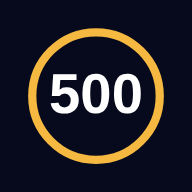
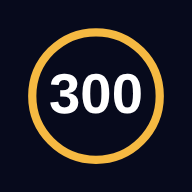
feat(chase): convert to T20 format (Chase 300 in 20 overs)
New T20 squads, retuned simulation, updated branding and icons.

Claude-Session: https://claude.ai/code/session_01HJVLRTaVsxWnxJfbUQ7NmV

Changed region(s): [[0.25, 0.375, 0.4375, 0.5938], [0.25, 0.5312, 0.3125, 0.5625]]

diff --git a/chase/src/data.js b/chase/src/data.js
@@ -1,50 +1,55 @@
-// Fan-made, approximate ratings (0-100). Not official stats.
+// Fan-made T20 squads, approximate ratings (0-100). Not official stats.
 // P(name, minSlot, maxSlot, bat, pow, bwl, keeper?)
 const P = (name, lo, hi, bat, pow, bwl, k = false) => ({ name, lo, hi, bat, pow, bwl, k })
 
 export const SQUADS = [
-  { id: 'wi79', name: 'West Indies', year: 1979, players: [
-    P('Greenidge', 1, 2, 82, 78, 0), P('Haynes', 1, 2, 80, 66, 0), P('Richards', 3, 4, 92, 95, 30),
-    P('Lloyd', 4, 5, 78, 76, 25), P('Kallicharran', 3, 5, 70, 66, 0), P('Murray', 6, 7, 55, 55, 0, true),
-    P('King', 5, 7, 60, 82, 50), P('Roberts', 8, 9, 30, 55, 90), P('Holding', 9, 11, 20, 35, 92),
-    P('Garner', 9, 11, 28, 40, 93), P('Croft', 10, 11, 15, 30, 88)] },
-  { id: 'pak92', name: 'Pakistan', year: 1992, players: [
-    P('Aamer Sohail', 1, 2, 66, 74, 25), P('Ramiz Raja', 1, 2, 72, 62, 0), P('Inzamam', 3, 4, 78, 80, 0),
-    P('Javed Miandad', 3, 5, 80, 66, 10), P('Salim Malik', 4, 5, 70, 66, 15), P('Moin Khan', 6, 7, 55, 78, 0, true),
-    P('Imran Khan', 5, 7, 75, 66, 85), P('Wasim Akram', 7, 8, 58, 80, 94), P('Mushtaq Ahmed', 8, 10, 25, 42, 82),
-    P('Aaqib Javed', 9, 11, 15, 30, 80), P('Ijaz Ahmed', 4, 6, 60, 72, 0)] },
-  { id: 'sl96', name: 'Sri Lanka', year: 1996, players: [
-    P('Jayasuriya', 1, 2, 68, 96, 62), P('Kaluwitharana', 1, 2, 52, 92, 0, true), P('Mahanama', 3, 4, 72, 62, 0),
-    P('de Silva', 3, 4, 82, 78, 55), P('Ranatunga', 4, 6, 76, 82, 20), P('Gurusinha', 3, 5, 74, 62, 30),
-    P('Tillakaratne', 5, 7, 66, 55, 0), P('Dharmasena', 7, 8, 38, 50, 72), P('Vaas', 8, 10, 28, 55, 86),
-    P('Muralitharan', 9, 11, 15, 40, 96), P('Wickramasinghe', 8, 10, 22, 42, 70)] },
-  { id: 'aus03', name: 'Australia', year: 2003, players: [
-    P('Gilchrist', 1, 2, 80, 94, 0, true), P('Hayden', 1, 2, 82, 80, 0), P('Ponting', 3, 3, 92, 85, 0),
-    P('Martyn', 4, 5, 74, 68, 0), P('Lehmann', 4, 6, 72, 74, 10), P('Bevan', 5, 6, 90, 64, 5),
-    P('Symonds', 5, 7, 76, 88, 55), P('Bichel', 7, 8, 42, 62, 78), P('Lee', 8, 9, 22, 52, 93),
-    P('McGrath', 10, 11, 6, 20, 96), P('Gillespie', 9, 11, 14, 32, 90)] },
-  { id: 'ind11', name: 'India', year: 2011, players: [
-    P('Sehwag', 1, 2, 70, 97, 20), P('Tendulkar', 1, 2, 90, 86, 28), P('Gambhir', 2, 3, 80, 66, 0),
-    P('Kohli', 3, 4, 90, 76, 12), P('Yuvraj', 4, 5, 70, 82, 62), P('Dhoni', 5, 6, 82, 88, 0, true),
-    P('Raina', 5, 7, 66, 82, 40), P('Harbhajan', 7, 8, 32, 60, 78), P('Zaheer Khan', 8, 10, 22, 40, 90),
-    P('Munaf Patel', 9, 11, 12, 32, 78), P('Ashwin', 7, 9, 36, 56, 82)] },
-  { id: 'eng19', name: 'England', year: 2019, players: [
-    P('Roy', 1, 2, 76, 94, 0), P('Bairstow', 1, 3, 78, 90, 0, true), P('Root', 3, 4, 92, 74, 30),
-    P('Morgan', 4, 5, 80, 92, 0), P('Stokes', 5, 6, 74, 86, 70), P('Buttler', 5, 6, 80, 96, 0, true),
-    P('Moeen Ali', 6, 7, 50, 84, 62), P('Woakes', 7, 8, 48, 66, 80), P('Plunkett', 8, 10, 28, 70, 80),
-    P('Archer', 9, 10, 20, 52, 92), P('Wood', 10, 11, 10, 25, 88)] },
-  { id: 'nz15', name: 'New Zealand', year: 2015, players: [
-    P('McCullum', 1, 2, 60, 99, 0), P('Guptill', 1, 2, 76, 84, 0), P('Williamson', 3, 4, 86, 68, 20),
-    P('Taylor', 3, 5, 82, 72, 5), P('Elliott', 4, 5, 76, 76, 40), P('Anderson', 5, 6, 56, 90, 50),
-    P('Ronchi', 6, 7, 52, 86, 0, true), P('Vettori', 7, 8, 42, 58, 78), P('Southee', 8, 9, 24, 60, 86),
-    P('Boult', 9, 11, 14, 30, 92), P('Henry', 9, 11, 16, 32, 86)] },
-  { id: 'sa15', name: 'South Africa', year: 2015, players: [
-    P('Amla', 1, 2, 90, 74, 0), P('de Kock', 1, 2, 76, 84, 0, true), P('du Plessis', 2, 3, 82, 70, 0),
-    P('de Villiers', 3, 5, 94, 99, 5), P('Duminy', 4, 6, 76, 72, 55), P('Miller', 5, 6, 68, 92, 0),
-    P('Rossouw', 3, 5, 64, 82, 0), P('Steyn', 8, 10, 14, 40, 97), P('Morkel', 9, 11, 18, 38, 90),
-    P('Tahir', 10, 11, 10, 25, 88), P('Philander', 7, 9, 38, 48, 84)] },
+  { id: 'ind07', name: 'India', year: 2007, players: [
+    P('Gambhir', 1, 2, 72, 76, 0), P('Sehwag', 1, 2, 66, 92, 10), P('Yuvraj', 3, 5, 78, 96, 40),
+    P('Uthappa', 3, 5, 60, 80, 0), P('Rohit', 4, 6, 62, 78, 10), P('Dhoni', 5, 6, 80, 88, 0, true),
+    P('I. Pathan', 6, 8, 50, 70, 85), P('Harbhajan', 7, 9, 30, 55, 80), P('RP Singh', 9, 10, 10, 30, 82),
+    P('Sreesanth', 10, 11, 10, 25, 76), P('J. Sharma', 9, 11, 10, 30, 70)] },
+  { id: 'ind24', name: 'India', year: 2024, players: [
+    P('Rohit', 1, 2, 80, 94, 0), P('Kohli', 1, 3, 90, 84, 0), P('Pant', 3, 5, 70, 88, 0, true),
+    P('SKY', 3, 4, 82, 98, 0), P('Dube', 4, 6, 60, 90, 30), P('Hardik', 5, 6, 66, 90, 82),
+    P('Jadeja', 6, 7, 50, 72, 85), P('Axar', 7, 8, 40, 76, 84), P('Kuldeep', 8, 10, 10, 30, 88),
+    P('Bumrah', 10, 11, 8, 20, 98), P('Arshdeep', 10, 11, 8, 25, 90)] },
+  { id: 'wi16', name: 'West Indies', year: 2016, players: [
+    P('Gayle', 1, 2, 80, 98, 20), P('Charles', 1, 3, 60, 84, 0), P('Simmons', 2, 3, 66, 78, 0),
+    P('Samuels', 3, 4, 70, 70, 30), P('Bravo', 4, 6, 66, 84, 80), P('Russell', 5, 6, 60, 99, 86),
+    P('Sammy', 6, 7, 38, 86, 55), P('Ramdin', 6, 7, 40, 72, 0, true), P('Brathwaite', 7, 8, 36, 92, 75),
+    P('Narine', 8, 9, 28, 70, 95), P('Badree', 10, 11, 8, 20, 88)] },
+  { id: 'aus21', name: 'Australia', year: 2021, players: [
+    P('Warner', 1, 2, 88, 88, 0), P('Finch', 1, 2, 78, 90, 0), P('Marsh', 3, 3, 82, 86, 40),
+    P('Smith', 3, 4, 74, 74, 10), P('Maxwell', 4, 5, 72, 96, 60), P('Stoinis', 5, 6, 60, 90, 62),
+    P('Wade', 6, 7, 62, 90, 0, true), P('Cummins', 8, 9, 30, 60, 88), P('Starc', 9, 10, 10, 40, 90),
+    P('Zampa', 10, 11, 8, 20, 94), P('Hazlewood', 10, 11, 8, 20, 92)] },
+  { id: 'eng22', name: 'England', year: 2022, players: [
+    P('Hales', 1, 2, 74, 92, 0), P('Buttler', 1, 3, 82, 96, 0, true), P('Malan', 2, 3, 86, 82, 0),
+    P('Brook', 3, 4, 70, 88, 0), P('Livingstone', 4, 5, 62, 96, 50), P('Stokes', 4, 6, 60, 80, 70),
+    P('Moeen', 5, 7, 50, 86, 70), P('S. Curran', 7, 8, 36, 80, 90), P('Woakes', 8, 9, 24, 50, 82),
+    P('Rashid', 9, 10, 14, 48, 92), P('Jordan', 9, 11, 12, 40, 86)] },
+  { id: 'pak12', name: 'Pakistan', year: 2012, players: [
+    P('Hafeez', 1, 2, 66, 74, 60), P('N. Jamshed', 1, 2, 56, 78, 0), P('K. Akmal', 1, 3, 56, 86, 0, true),
+    P('Misbah', 3, 5, 68, 74, 0), P('U. Akmal', 4, 6, 52, 84, 0), P('Malik', 5, 6, 58, 74, 60),
+    P('Afridi', 5, 7, 36, 98, 85), P('Razzaq', 7, 8, 34, 86, 70), P('Gul', 9, 10, 10, 38, 92),
+    P('Ajmal', 10, 11, 6, 20, 96), P('Junaid', 10, 11, 6, 20, 80)] },
+  { id: 'sl14', name: 'Sri Lanka', year: 2014, players: [
+    P('Dilshan', 1, 2, 72, 90, 20), P('Perera', 1, 2, 56, 92, 0), P('Sangakkara', 3, 3, 88, 84, 0, true),
+    P('Jayawardene', 3, 4, 80, 78, 0), P('Chandimal', 4, 5, 60, 76, 0), P('Mathews', 5, 6, 62, 82, 72),
+    P('Kapugedera', 5, 6, 46, 84, 0), P('T. Perera', 7, 8, 36, 90, 72), P('Kulasekara', 8, 9, 22, 50, 82),
+    P('Malinga', 9, 11, 10, 40, 96), P('Mendis', 10, 11, 8, 20, 92)] },
+  { id: 'sa14', name: 'South Africa', year: 2014, players: [
+    P('de Kock', 1, 2, 68, 88, 0, true), P('Amla', 1, 3, 76, 78, 0), P('du Plessis', 2, 3, 72, 82, 0),
+    P('de Villiers', 3, 5, 84, 100, 5), P('Duminy', 4, 5, 70, 82, 50), P('Miller', 5, 6, 60, 94, 0),
+    P('Parnell', 6, 8, 30, 70, 76), P('Abbott', 8, 9, 10, 40, 86), P('Morkel', 8, 9, 20, 50, 84),
+    P('Steyn', 9, 10, 10, 30, 95), P('Tahir', 10, 11, 6, 20, 94)] },
+  { id: 'nz21', name: 'New Zealand', year: 2021, players: [
+    P('Guptill', 1, 2, 62, 92, 0), P('Conway', 1, 3, 88, 84, 0, true), P('Williamson', 3, 4, 80, 76, 10),
+    P('Mitchell', 3, 5, 66, 86, 30), P('Phillips', 4, 5, 58, 92, 20), P('Neesham', 5, 6, 46, 95, 66),
+    P('Santner', 7, 8, 30, 70, 88), P('Southee', 8, 9, 14, 50, 88), P('Boult', 9, 11, 8, 26, 94),
+    P('Sodhi', 10, 11, 6, 20, 82), P('Ferguson', 9, 11, 8, 28, 90)] },
 ]
 
 export const SLOT_LABELS = ['Opener', 'Opener', 'No. 3', 'No. 4', 'No. 5', 'No. 6', 'No. 7', 'No. 8', 'No. 9', 'No. 10', 'No. 11']
-export const TARGET = 500
-export const BALLS = 300
+export const TARGET = 300
+export const BALLS = 120 // 20 overs

diff --git a/chase/src/sim.js b/chase/src/sim.js
@@ -14,14 +14,14 @@ export function teamRatings(xi) {
 
 function ballOutcome(r, bat, pow, morale, pressure) {
   const p = Math.min(100, pow * morale)
-  const surviveBalls = 8 + Math.pow(bat / 100, 2) * 80
+  const surviveBalls = 5 + Math.pow(bat / 100, 2) * 40
   const pW = Math.min(0.2, (1 / surviveBalls) * (1 + pressure * 0.35 * (p / 100)))
   const x = r()
   if (x < pW) return 'W'
   const q = p / 100
-  const mean = 0.40 + p * 0.0112
-  const p6 = 0.01 + 0.09 * q * q
-  const p4 = 0.05 + 0.1 * q
+  const mean = 0.58 + p * 0.0158
+  const p6 = 0.02 + 0.16 * q * q
+  const p4 = 0.08 + 0.1 * q
   const rest = 1 - p4 - p6
   const mu = Math.max(0.1, Math.min(1.5, (mean - 4 * p4 - 6 * p6) / rest))
   const y = r()
@@ -33,7 +33,7 @@ function ballOutcome(r, bat, pow, morale, pressure) {
 }
 
 // Simulates a whole chase. Returns events + summary. `rand` is a seeded rng.
-export function simulate(xi, rand, target = 500) {
+export function simulate(xi, rand, target = 300) {
   const { pow: tp, bwl, hasKeeper } = teamRatings(xi)
   const morale = 1 + (bwl - 70) / 500 - (hasKeeper ? 0 : 0.04)
   const events = []
@@ -43,7 +43,7 @@ export function simulate(xi, rand, target = 500) {
   for (let ball = 0; ball < BALLS && wickets < 10; ball++) {
     const need = target - score
     const ballsLeft = BALLS - ball
-    const pressure = Math.max(0, Math.min(2, need / ballsLeft - 1.5))
+    const pressure = Math.max(0, Math.min(2, need / ballsLeft - 2.2))
     const b = xi[striker]
     const o = ballOutcome(rand, b.bat, b.pow, morale, pressure)
     card[striker].balls++
@@ -76,15 +76,15 @@ export function simulate(xi, rand, target = 500) {
   }
 }
 
-export function verdict(res, target = 500) {
+export function verdict(res, target = 300) {
   if (res.won) {
     const o = res.ballsUsed
-    return o < 270 ? 'IMMORTAL — the impossible, done early.' : 'LEGENDARY — 500 chased down!'
+    return o < 105 ? 'IMMORTAL — the impossible, done early.' : 'LEGENDARY — 300 chased down!'
   }
   const d = target - res.score
-  if (d <= 10) return `Heartbreak — ${d} short!`
-  if (d <= 50) return 'So close. A real shot at history.'
-  if (d <= 120) return 'Respectable, but 500 is still a mountain.'
-  if (d <= 200) return 'A decent ODI total. Nowhere near 500.'
+  if (d <= 5) return `Heartbreak — ${d} short!`
+  if (d <= 30) return 'So close. A real shot at history.'
+  if (d <= 70) return 'Respectable, but 300 is still a mountain.'
+  if (d <= 110) return 'A strong T20 total. Nowhere near 300.'
   return 'Collapse. Back to the drawing board.'
 }

diff --git a/chase/src/App.jsx b/chase/src/App.jsx
@@ -53,13 +53,13 @@ function Home({ stats, onStart, onBoard }) {
   const streak = liveStreak(stats)
   return (
     <main className="home">
-      <div className="logo">500</div>
-      <h1>Chase 500</h1>
-      <p className="sub">Draft an XI from legendary squads. Chase 500 in 50 overs. A new wheel every day.</p>
+      <div className="logo">300</div>
+      <h1>Chase 300</h1>
+      <p className="sub">Draft an XI from legendary squads. Chase 300 in 50 overs. A new wheel every day.</p>
       <div className="stats">
         <div><b>🔥 {streak}</b><span>day streak</span></div>
         <div><b>{stats.best || '–'}</b><span>best score</span></div>
-        <div><b>{stats.wins}</b><span>500s</span></div>
+        <div><b>{stats.wins}</b><span>300s</span></div>
       </div>
       {played ? (
         <div className="card">Today's chase: <b>{played.score}</b>{played.won ? ' 🏆' : ''}<br /><small>Come back tomorrow to keep your streak.</small></div>
@@ -240,7 +240,7 @@ function Result({ xi, result, mode, stats, seedStr, onHome, onPractice, onBoard 
   }
   const streak = liveStreak(stats)
   const text = [
-    `Chase 500 ${mode === 'daily' ? seedStr : '(practice)'}`,
+    `Chase 300 ${mode === 'daily' ? seedStr : '(practice)'}`,
     `${result.score}/${result.wickets} in ${oversStr(result.ballsUsed)} ov ${result.won ? '🏆' : ''}`,
     xi.map((p) => p.name).join(' · '),
     mode === 'daily' ? `🔥 ${streak}-day streak` : '',

diff --git a/chase/src/api.js b/chase/src/api.js
@@ -1,4 +1,4 @@
-const KEY = 'chase500.device'
+const KEY = 'chase300.device'
 export function deviceId() {
   try {
     let d = localStorage.getItem(KEY)
@@ -6,8 +6,8 @@ export function deviceId() {
     return d
   } catch { return 'anon-' + Math.random().toString(36).slice(2, 12) }
 }
-export const getName = () => { try { return localStorage.getItem('chase500.name') || '' } catch { return '' } }
-export const setName = (n) => { try { localStorage.setItem('chase500.name', n) } catch {} }
+export const getName = () => { try { return localStorage.getItem('chase300.name') || '' } catch { return '' } }
+export const setName = (n) => { try { localStorage.setItem('chase300.name', n) } catch {} }
 
 async function j(path, opts) {
   const r = await fetch('/api' + path, { headers: { 'content-type': 'application/json' }, ...opts })

diff --git a/chase/vite.config.js b/chase/vite.config.js
@@ -14,9 +14,9 @@ export default defineConfig({
       registerType: 'autoUpdate',
       includeAssets: ['icon.svg'],
       manifest: {
-        name: 'Chase 500 — Daily Draft',
-        short_name: 'Chase 500',
-        description: 'Draft an XI from legendary squads and chase 500 in 50 overs. New wheel every day.',
+        name: 'Chase 300 — Daily Draft',
+        short_name: 'Chase 300',
+        description: 'Draft an XI from legendary squads and chase 300 in 20 overs. New wheel every day.',
         theme_color: '#070a1c',
         background_color: '#070a1c',
         display: 'standalone',

diff --git a/chase/src/sw.js b/chase/src/sw.js
@@ -8,7 +8,7 @@ precacheAndRoute(self.__WB_MANIFEST)
 registerRoute(new NavigationRoute(createHandlerBoundToURL('index.html'), { denylist: [/^\/api\//] }))
 
 self.addEventListener('push', (event) => {
-  let d = { title: 'Chase 500', body: "Today's wheel is ready!", url: '/' }
+  let d = { title: 'Chase 300', body: "Today's wheel is ready!", url: '/' }
   try { d = { ...d, ...event.data.json() } } catch {}
   event.waitUntil(self.registration.showNotification(d.title, {
     body: d.body, icon: '/icon-192.png', badge: '/icon-192.png', data: { url: d.url }, tag: 'daily-reminder',

diff --git a/chase/index.html b/chase/index.html
@@ -6,7 +6,7 @@
     <meta name="theme-color" content="#070a1c" />
     <link rel="icon" type="image/svg+xml" href="/icon.svg" />
     <link rel="apple-touch-icon" href="/icon-192.png" />
-    <title>Chase 500 — Daily Draft</title>
+    <title>Chase 300 — Daily Draft</title>
   </head>
   <body>
     <div id="root"></div>

diff --git a/chase/src/storage.js b/chase/src/storage.js
@@ -1,5 +1,5 @@
 import { todayKey } from './rng'
-const KEY = 'chase500.v1'
+const KEY = 'chase300.v1'
 const empty = { streak: 0, best: 0, lastPlayed: null, history: {}, played: 0, wins: 0 }
 
 export function load() {

diff --git a/chase/README.md b/chase/README.md
@@ -1,6 +1,6 @@
-# Chase 500
+# Chase 300
 
-Daily cricket draft game (PWA). Draft an XI from spun squads, chase 500 in 50 overs.
+Daily cricket draft game (PWA). Draft an XI from spun squads, chase 300 in 20 overs.
 
 ## Dev
 ```
